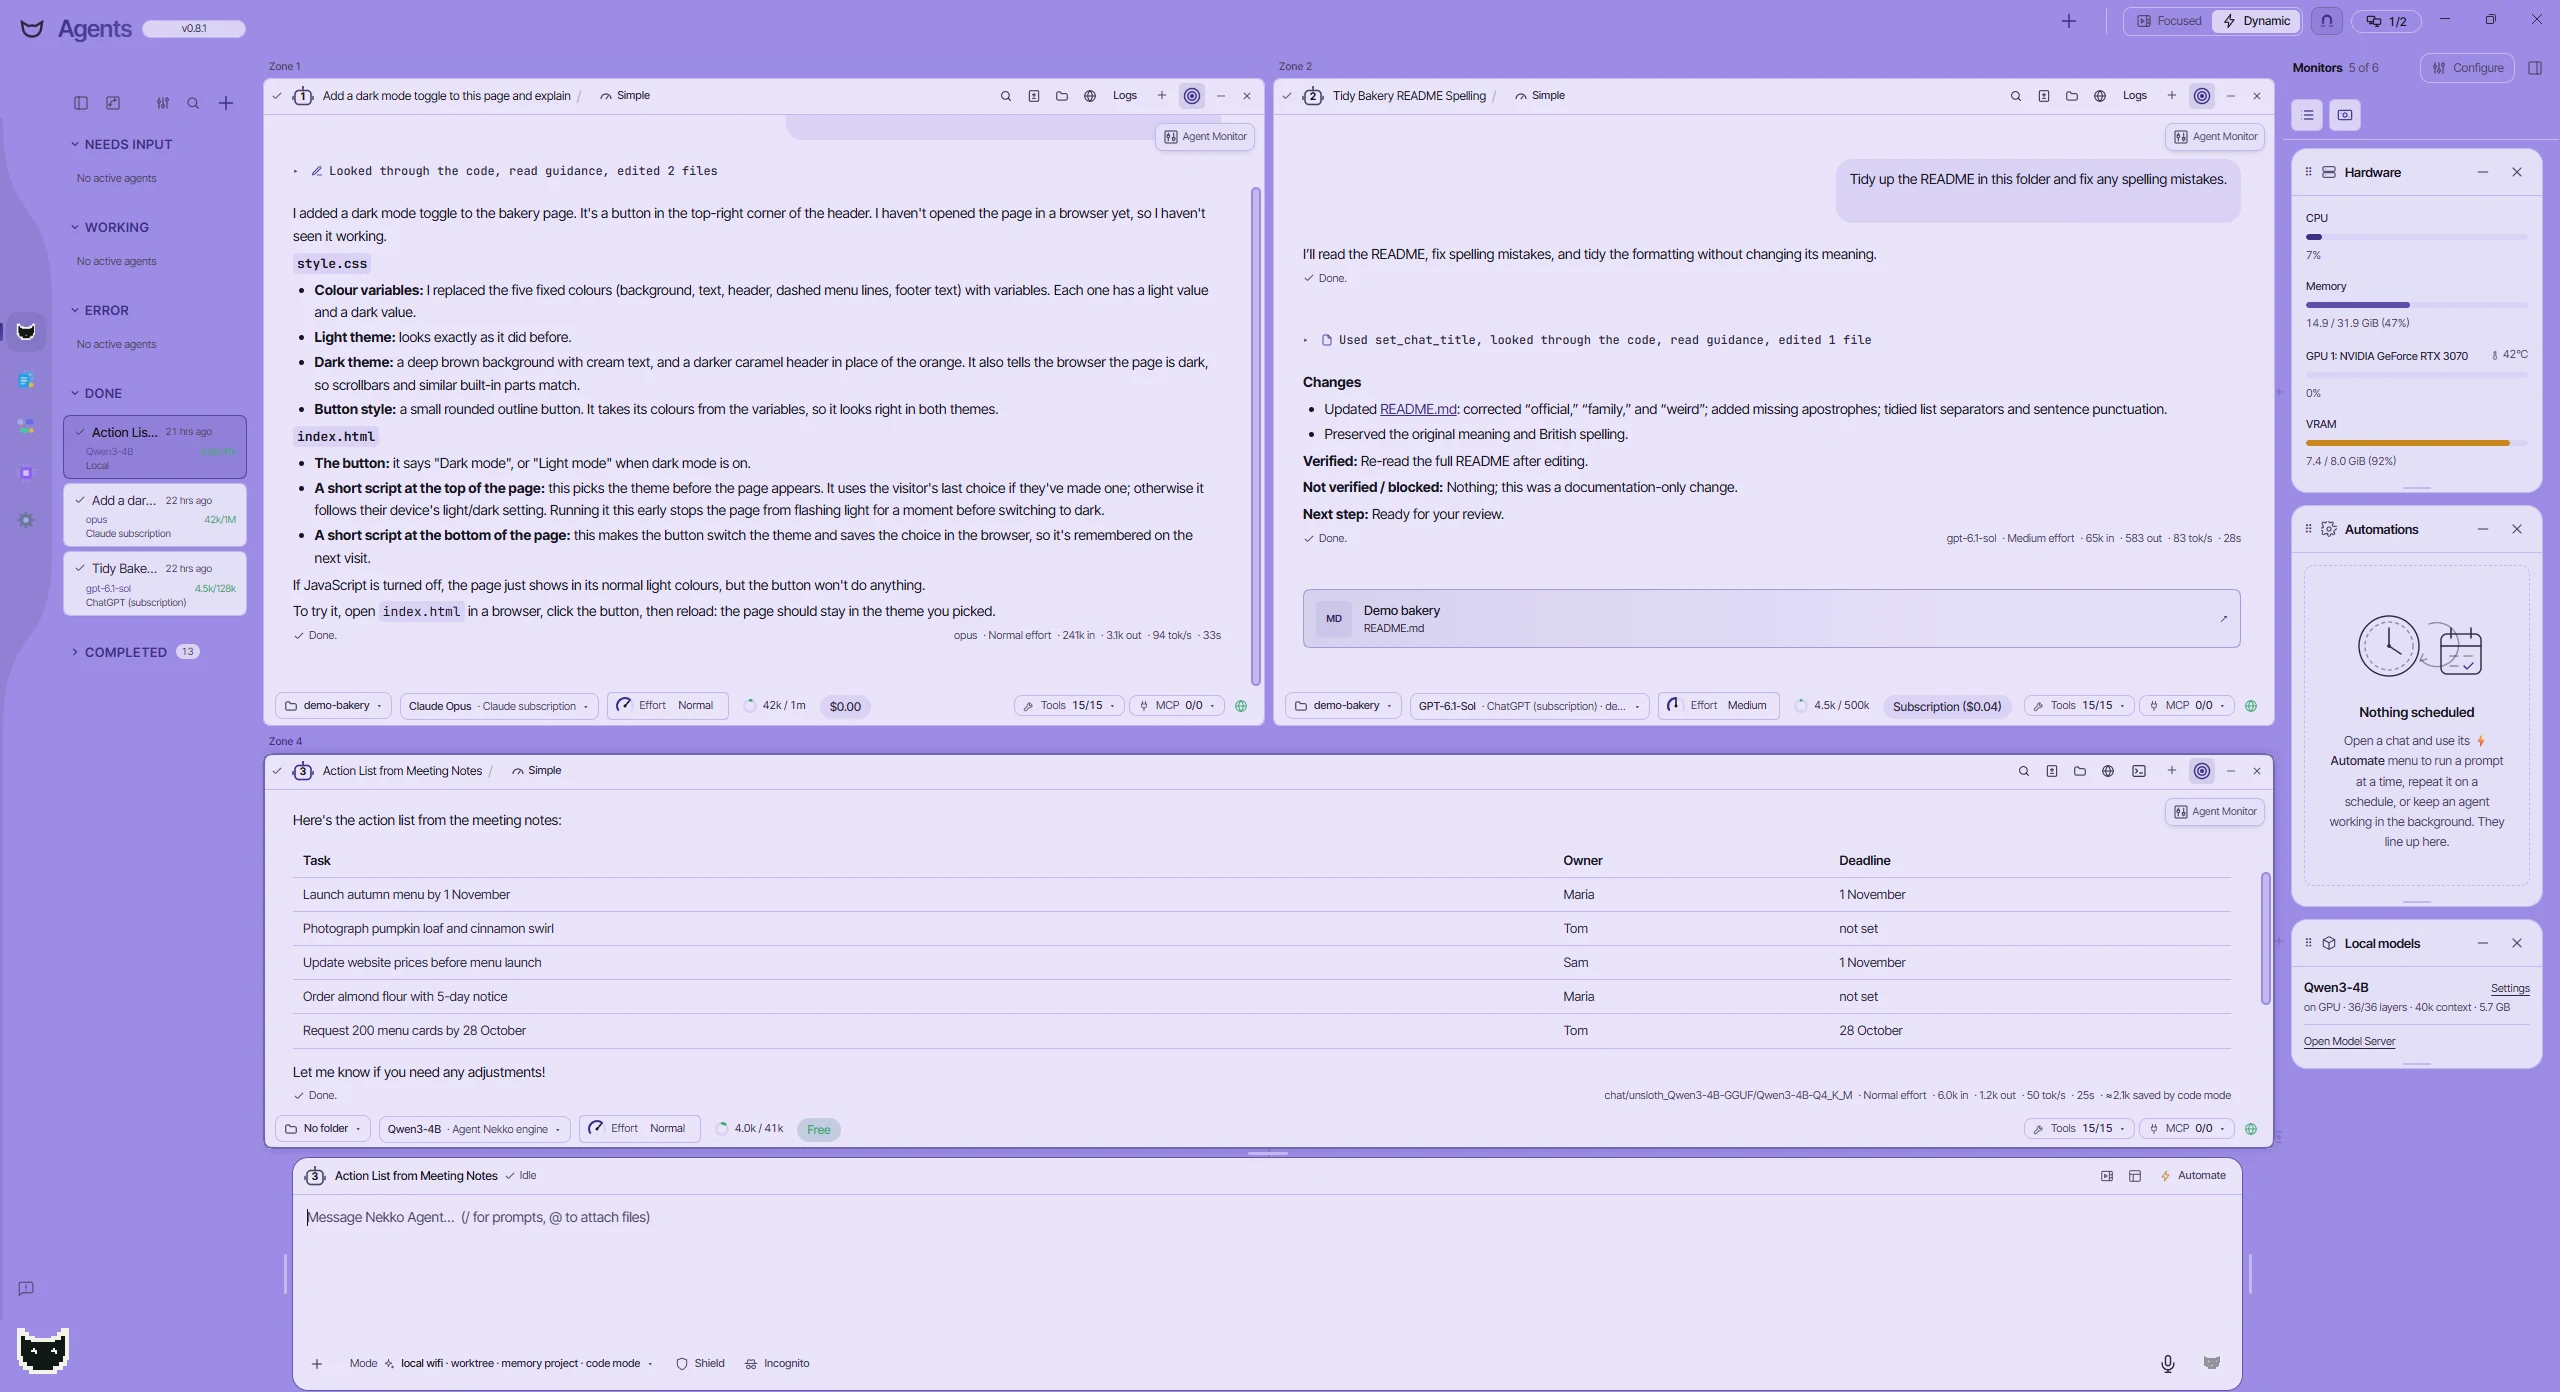
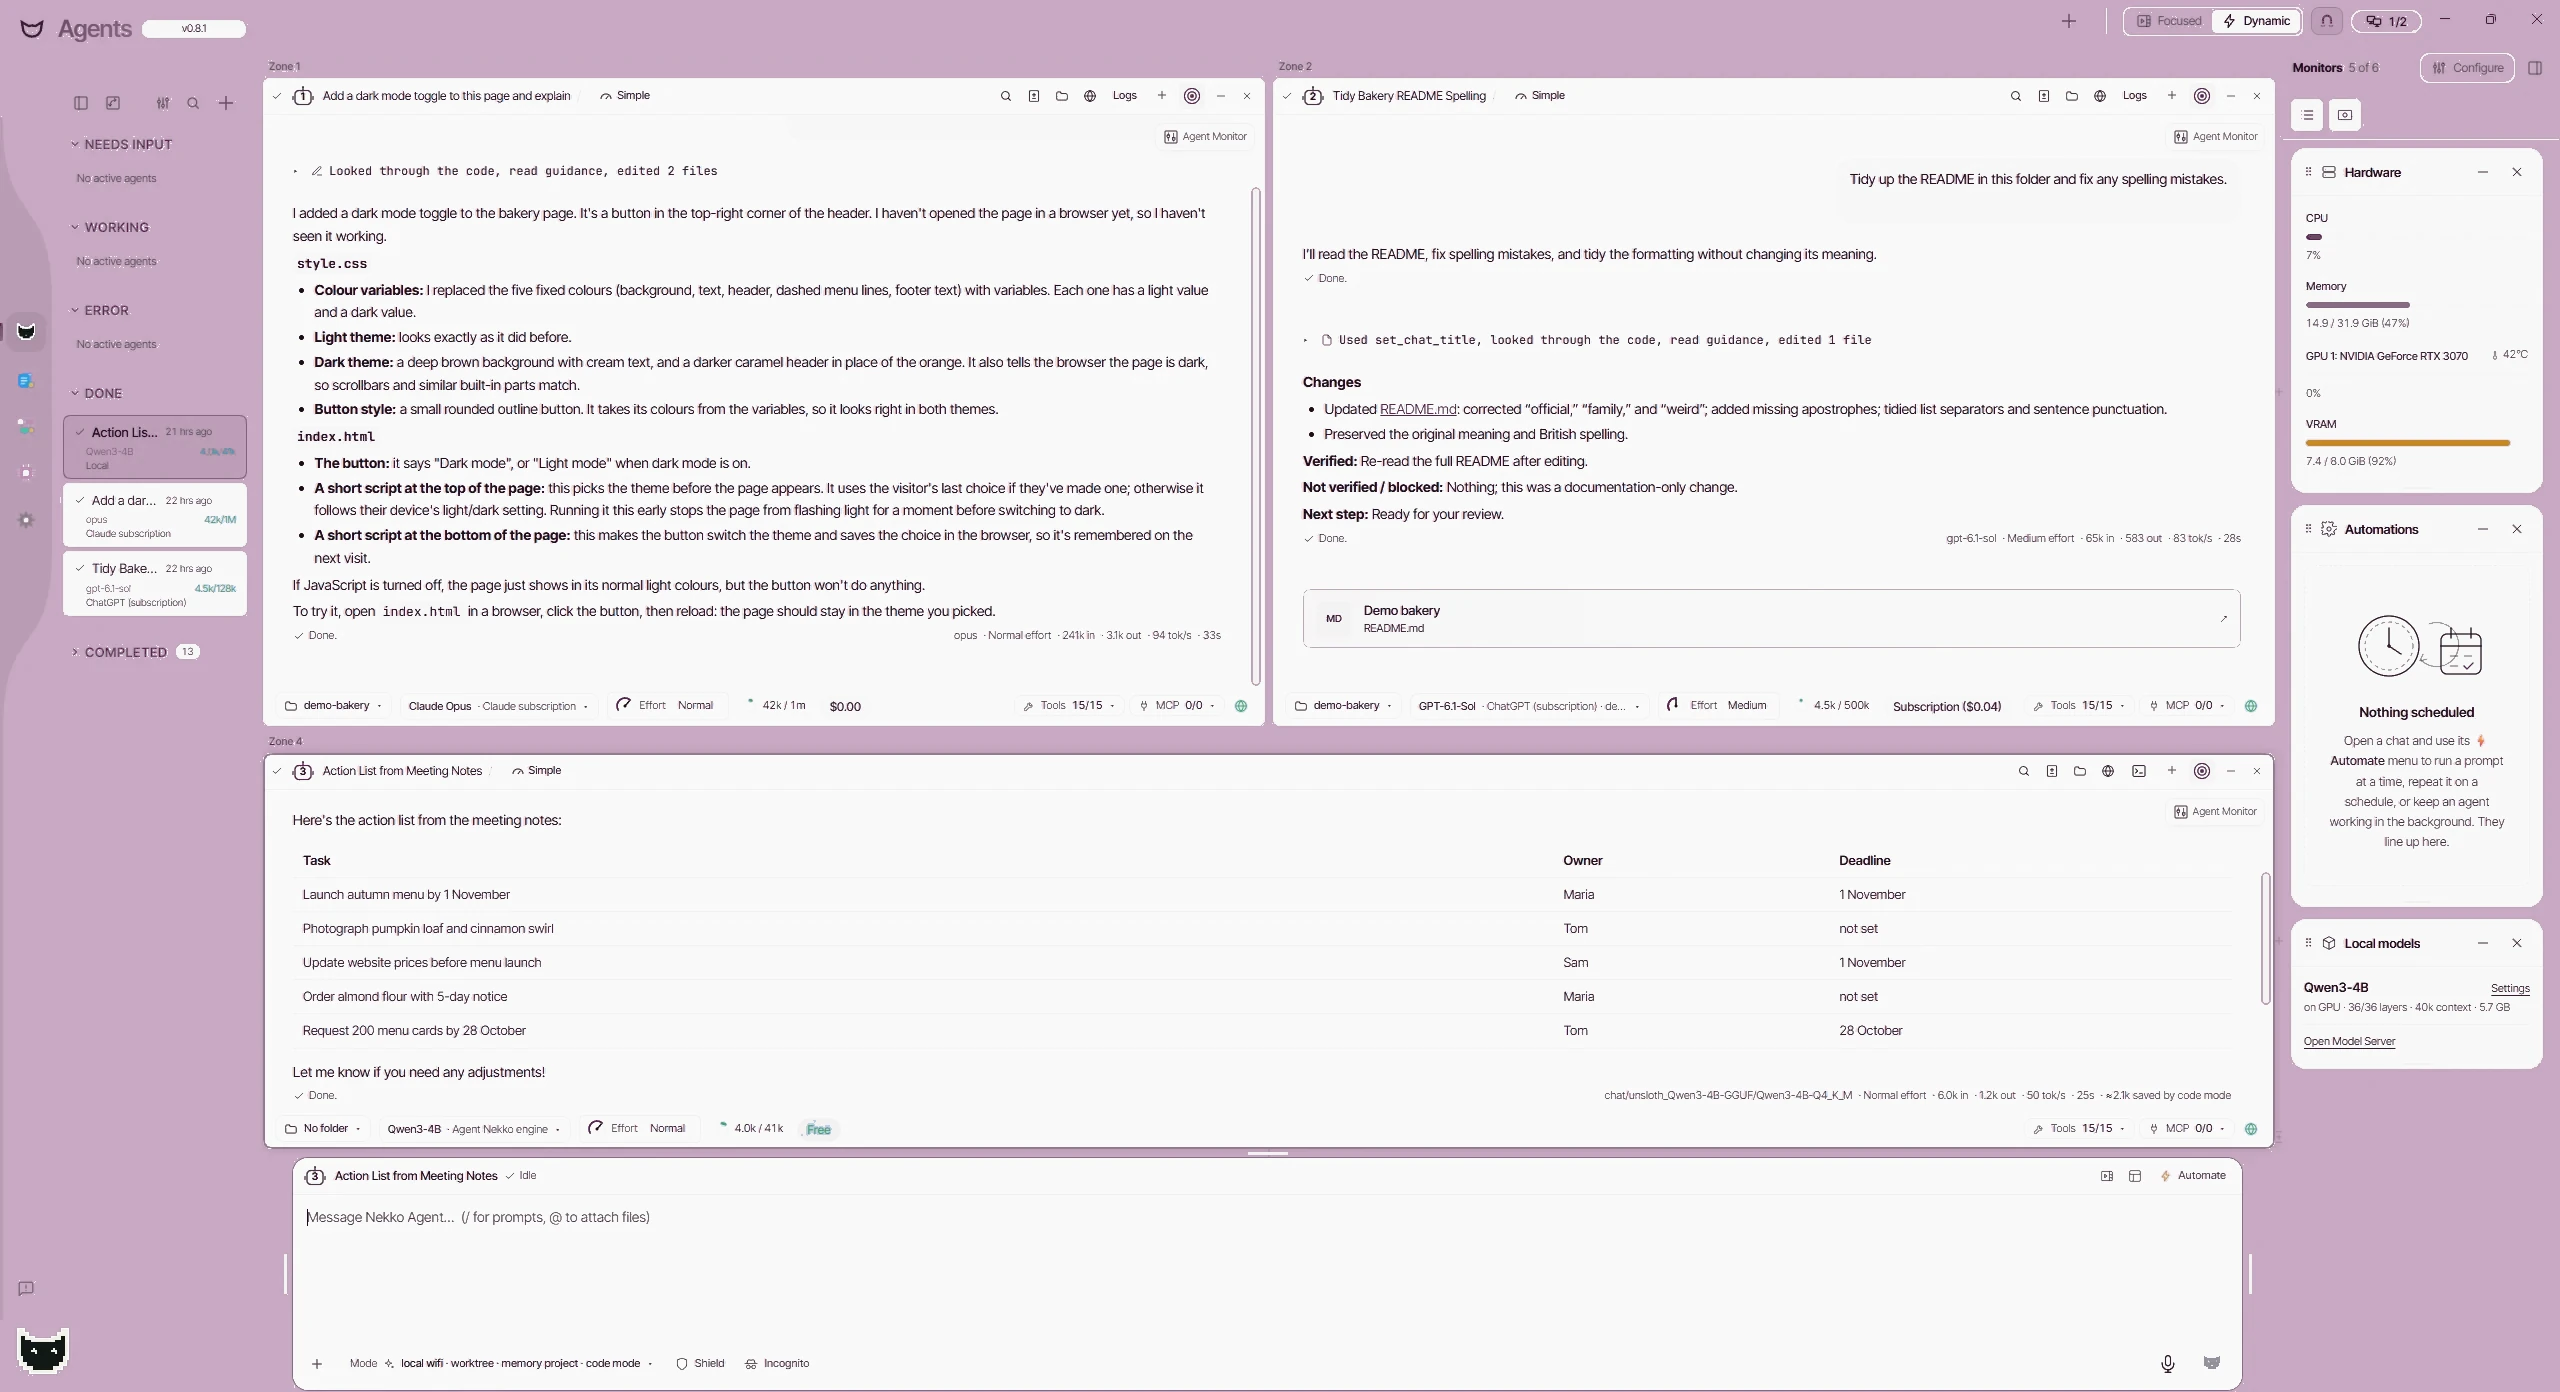
Website: recolour the hero screenshots to the Nekko plums
The real workspace screenshots move from lavender to plum: the dark one
onto neutral Dark surfaces, the light one onto a soft plum ground. Their
frames match the new edge colours.

diff --git a/apps/website/index.html b/apps/website/index.html
@@ -207,8 +207,8 @@
       <!-- ===== app window mock rises out of the hero band ===== -->
       <section class="showcase reveal" aria-label="Illustration of the workspace, not a live session">
                 <button class="media media-hero" type="button" aria-label="Nekko Agent workspace screenshot. Opens larger.">
-          <img class="hero-shot hero-shot-dark" src="media/hero-dark-1920.webp" srcset="media/hero-dark-1920.webp 1920w, media/hero-dark.webp 2560w" sizes="(max-width: 960px) 100vw, 960px" width="2560" height="1392" alt="Nekko Agent with three agents working side by side: Claude Opus adding a dark mode toggle, ChatGPT tidying a README, and a local Qwen model turning meeting notes into an action table" fetchpriority="high" decoding="async">
-          <img class="hero-shot hero-shot-light" src="media/hero-colour-1920.webp" srcset="media/hero-colour-1920.webp 1920w, media/hero-colour.webp 2560w" sizes="(max-width: 960px) 100vw, 960px" width="2560" height="1392" alt="Nekko Agent with three agents working side by side: Claude Opus adding a dark mode toggle, ChatGPT tidying a README, and a local Qwen model turning meeting notes into an action table" loading="lazy" decoding="async">
+          <img class="hero-shot hero-shot-dark" src="media/hero-dark-1920.webp?v=2" srcset="media/hero-dark-1920.webp 1920w, media/hero-dark.webp 2560w" sizes="(max-width: 960px) 100vw, 960px" width="2560" height="1392" alt="Nekko Agent with three agents working side by side: Claude Opus adding a dark mode toggle, ChatGPT tidying a README, and a local Qwen model turning meeting notes into an action table" fetchpriority="high" decoding="async">
+          <img class="hero-shot hero-shot-light" src="media/hero-colour-1920.webp?v=2" srcset="media/hero-colour-1920.webp 1920w, media/hero-colour.webp 2560w" sizes="(max-width: 960px) 100vw, 960px" width="2560" height="1392" alt="Nekko Agent with three agents working side by side: Claude Opus adding a dark mode toggle, ChatGPT tidying a README, and a local Qwen model turning meeting notes into an action table" loading="lazy" decoding="async">
         </button>
       </section>
 

diff --git a/apps/website/styles.css b/apps/website/styles.css
@@ -696,11 +696,11 @@ body {
    image, so the lightbox clone carries it too. Dark look shows the dark shot;
    White and Colourful show the light one. */
 .media .hero-shot { box-sizing: border-box; padding: 8px; object-fit: contain; }
-.hero-shot-dark, .lightbox-stage > .hero-shot-dark { background: #16161c; }
-.hero-shot-light, .lightbox-stage > .hero-shot-light { background: #dfb6b2; }
+.hero-shot-dark, .lightbox-stage > .hero-shot-dark { background: #241f23; }
+.hero-shot-light, .lightbox-stage > .hero-shot-light { background: #c9a9c4; }
 .media .hero-shot-dark, :root[data-theme='dark'] .media .hero-shot-light { display: none; }
 :root[data-theme='dark'] .media .hero-shot-dark { display: block; }
-:root[data-theme='dark'] .lightbox-stage > .hero-shot-dark { background: #16161c; }
+:root[data-theme='dark'] .lightbox-stage > .hero-shot-dark { background: #241f23; }
 
 /* the enlarged view */
 .lightbox {
